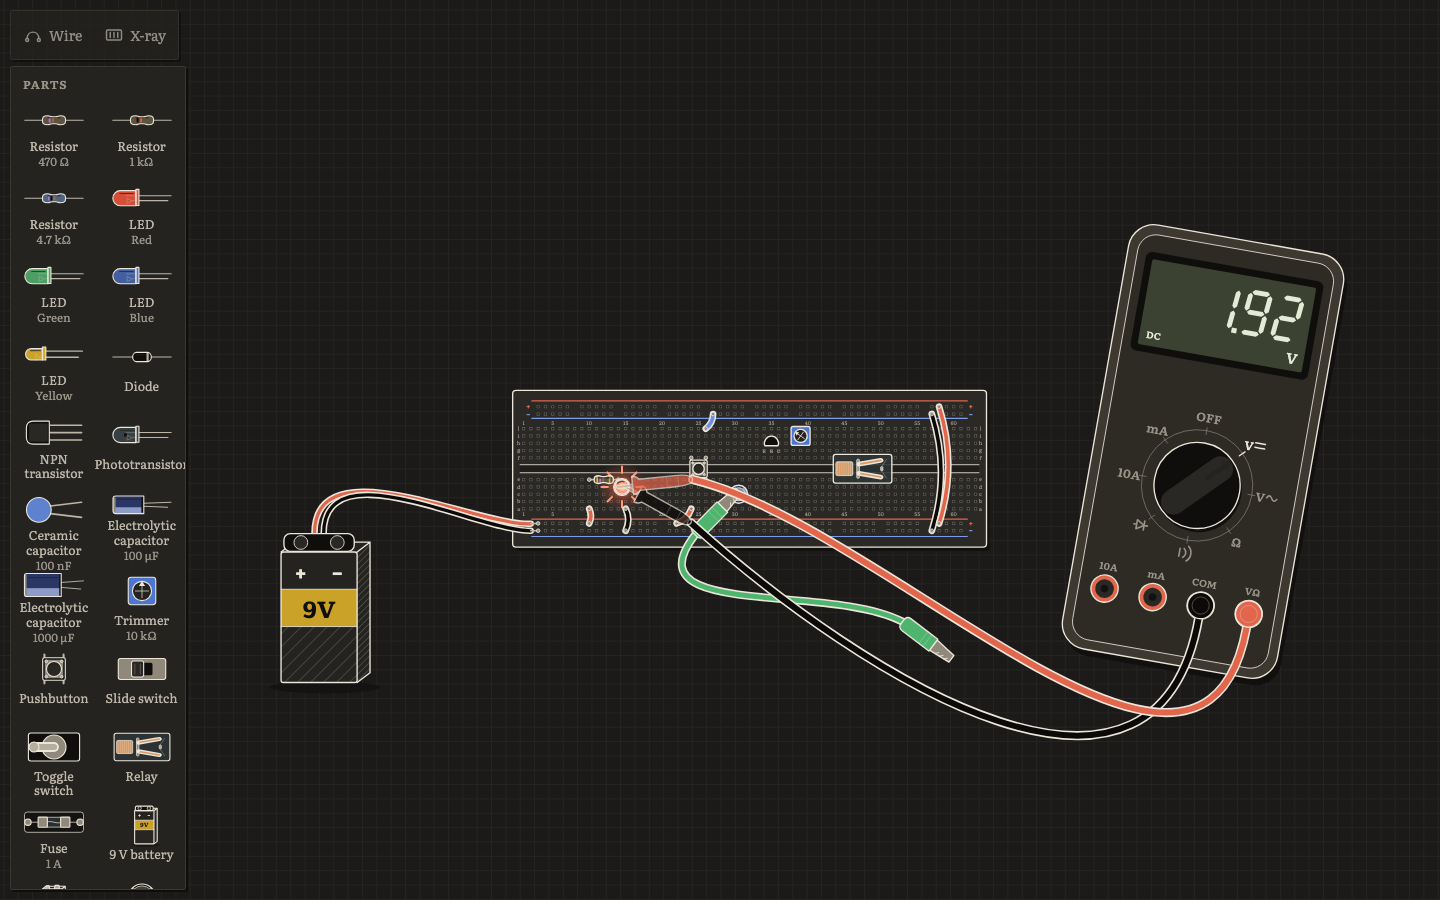
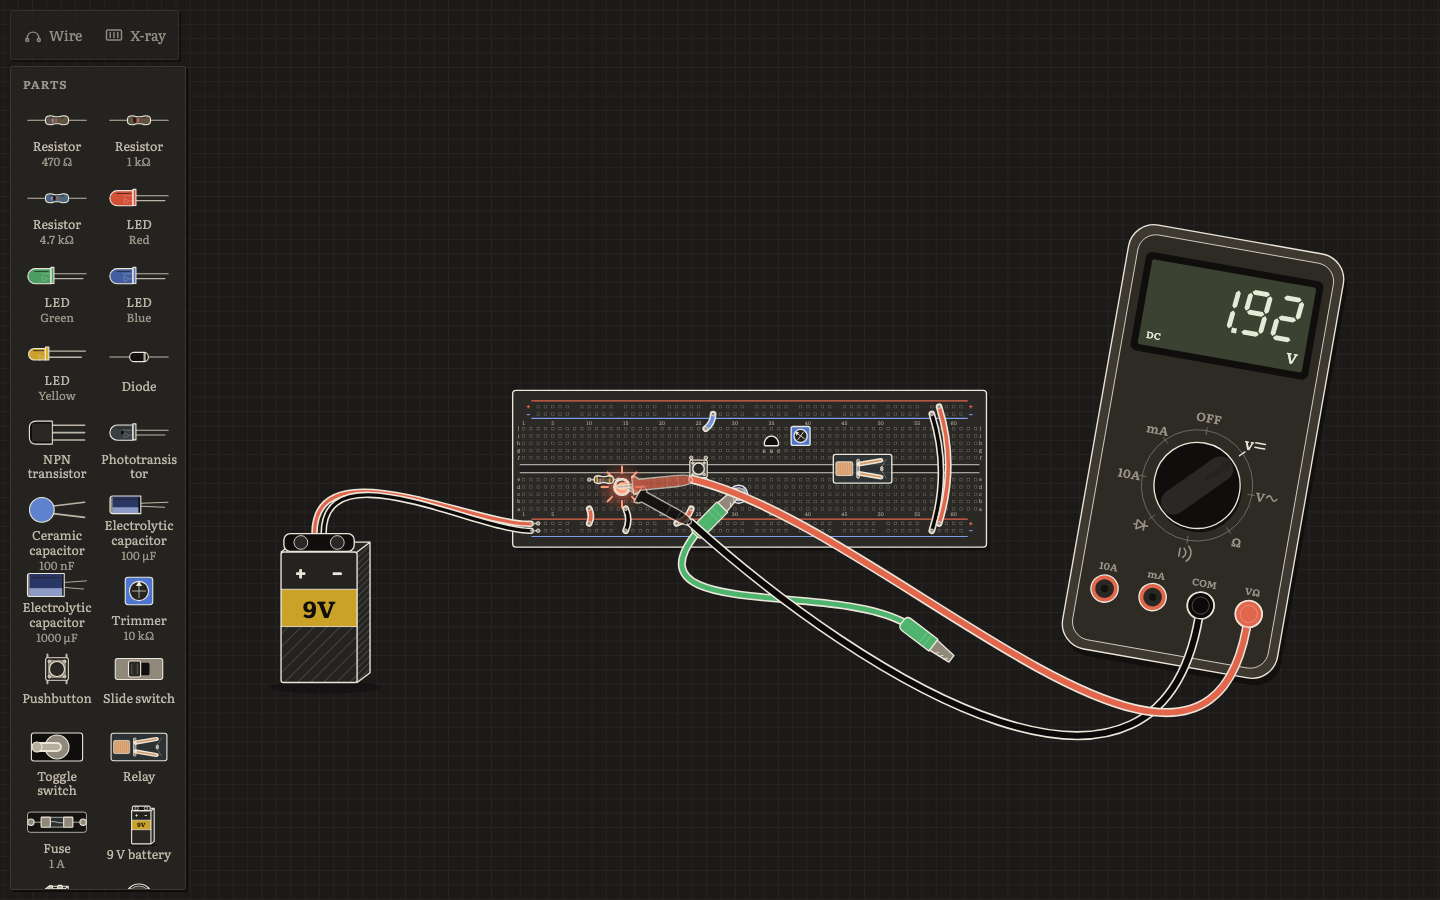
Wrap long tray names and show the first glow desk at the top of the ink docs

diff --git a/packages/bench/src/ink/styles.ts b/packages/bench/src/ink/styles.ts
@@ -375,7 +375,7 @@ export const INK_CSS = `
 .ohi-tray{position:absolute;left:10px;top:66px;bottom:10px;width:176px;display:flex;flex-direction:column;overflow:hidden}
 .ohi-tray h2{margin:10px 12px 2px;font-size:12px;font-weight:600;letter-spacing:.08em;text-transform:uppercase;color:var(--k-ink-3)}
 .ohi-tray-list{overflow:auto;padding:4px 6px 8px;display:grid;grid-template-columns:1fr 1fr;gap:2px}
-.ohi-item{all:unset;box-sizing:border-box;cursor:grab;touch-action:none;user-select:none;-webkit-user-select:none;border-radius:2px;min-height:76px;padding:4px 2px 6px;display:flex;flex-direction:column;align-items:center;justify-content:flex-start;gap:2px;text-align:center;font-size:12.5px;line-height:1.15;color:var(--k-ink-2)}
+.ohi-item{all:unset;box-sizing:border-box;cursor:grab;touch-action:none;user-select:none;-webkit-user-select:none;border-radius:2px;min-height:76px;padding:4px 2px 6px;display:flex;flex-direction:column;align-items:center;justify-content:flex-start;gap:2px;text-align:center;font-size:12.5px;line-height:1.15;color:var(--k-ink-2);overflow-wrap:anywhere;hyphens:auto}
 .ohi-item:hover{background:var(--k-sunk);color:var(--k-ink)}
 .ohi-item[aria-pressed=true]{background:var(--k-blue-wash);color:var(--k-blue);outline:1.5px solid var(--k-blue)}
 .ohi-item:focus-visible{outline:2px solid var(--k-focus)}

diff --git a/packages/bench/README.md b/packages/bench/README.md
@@ -252,7 +252,9 @@ from the same store, emits the same actions through the same `benchOps`, and rea
 a lab can switch between the 3D and ink views at any moment without losing anything (see `docs/BENCH-VIEWS.md`).
 It is plain SVG: nothing under `src/ink` imports three.js (a test walks the import graph to keep it that way).
 
-![Ink bench](screenshots/ink-desktop.png)
+![Ink bench: first glow](screenshots/ink-glow.png)
+
+![Ink bench: a populated breadboard, the meter and the tray](screenshots/ink-desktop.png)
 
 Use it through `<BenchView view="ink">`, or alone:
 
